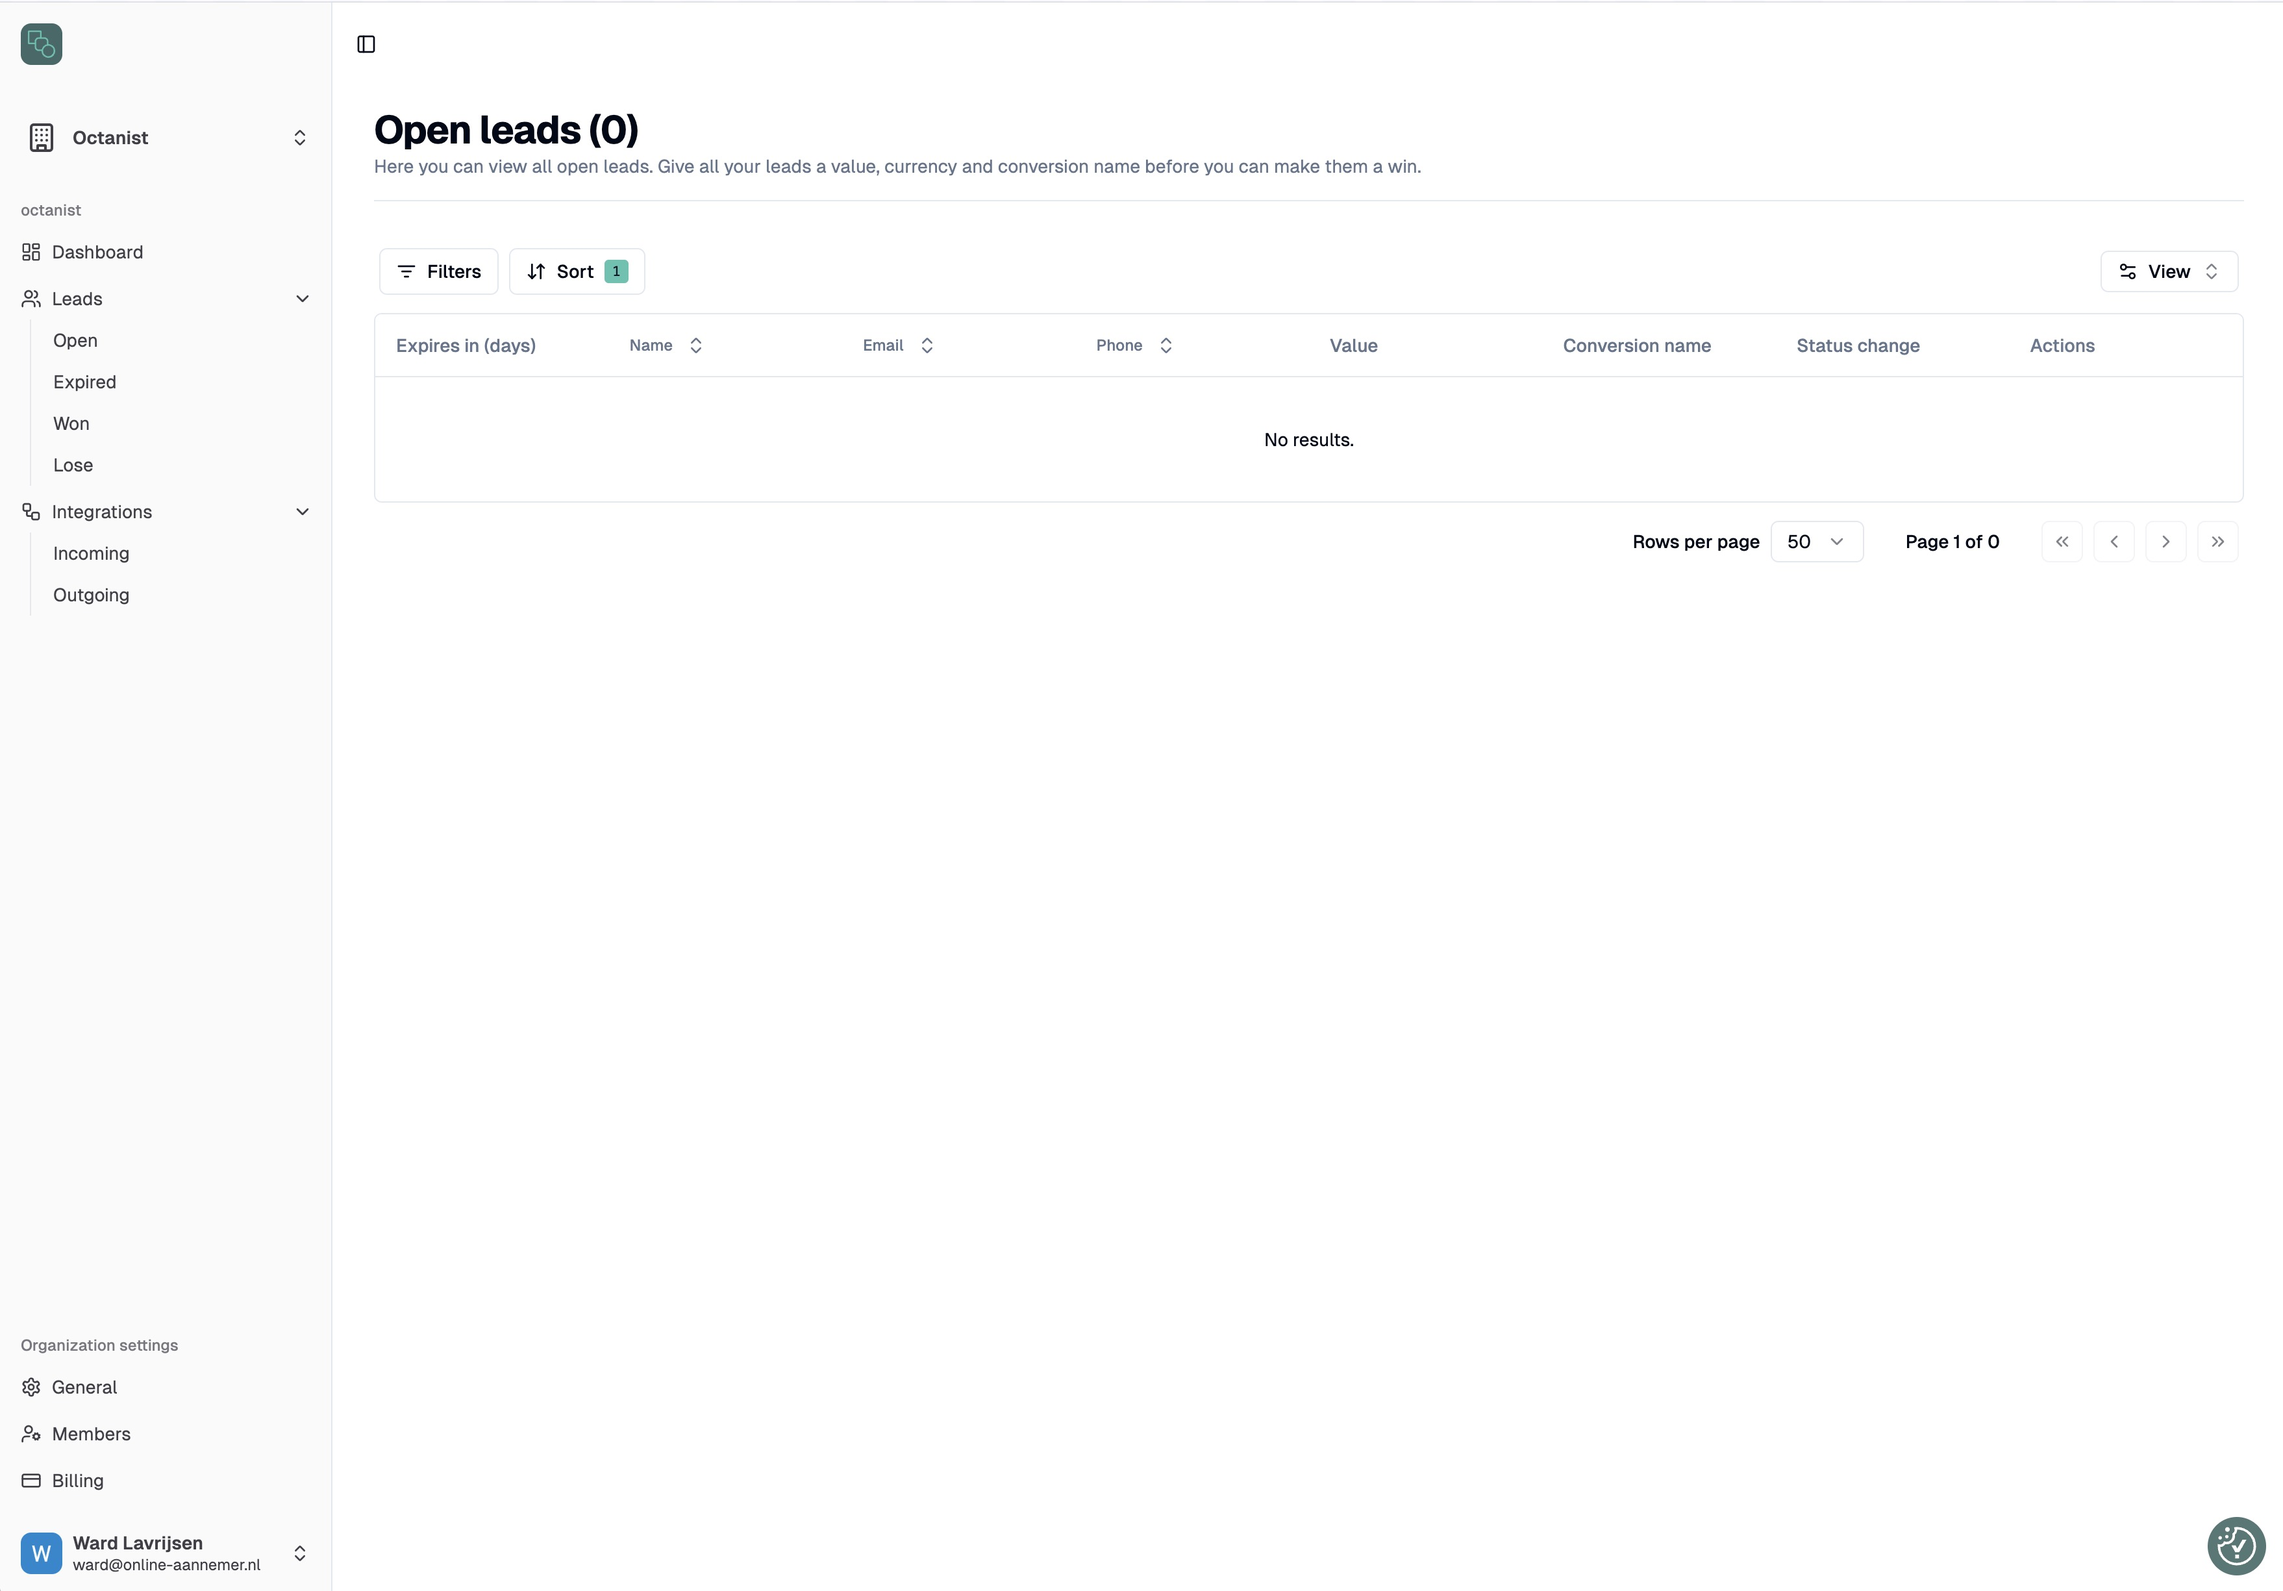
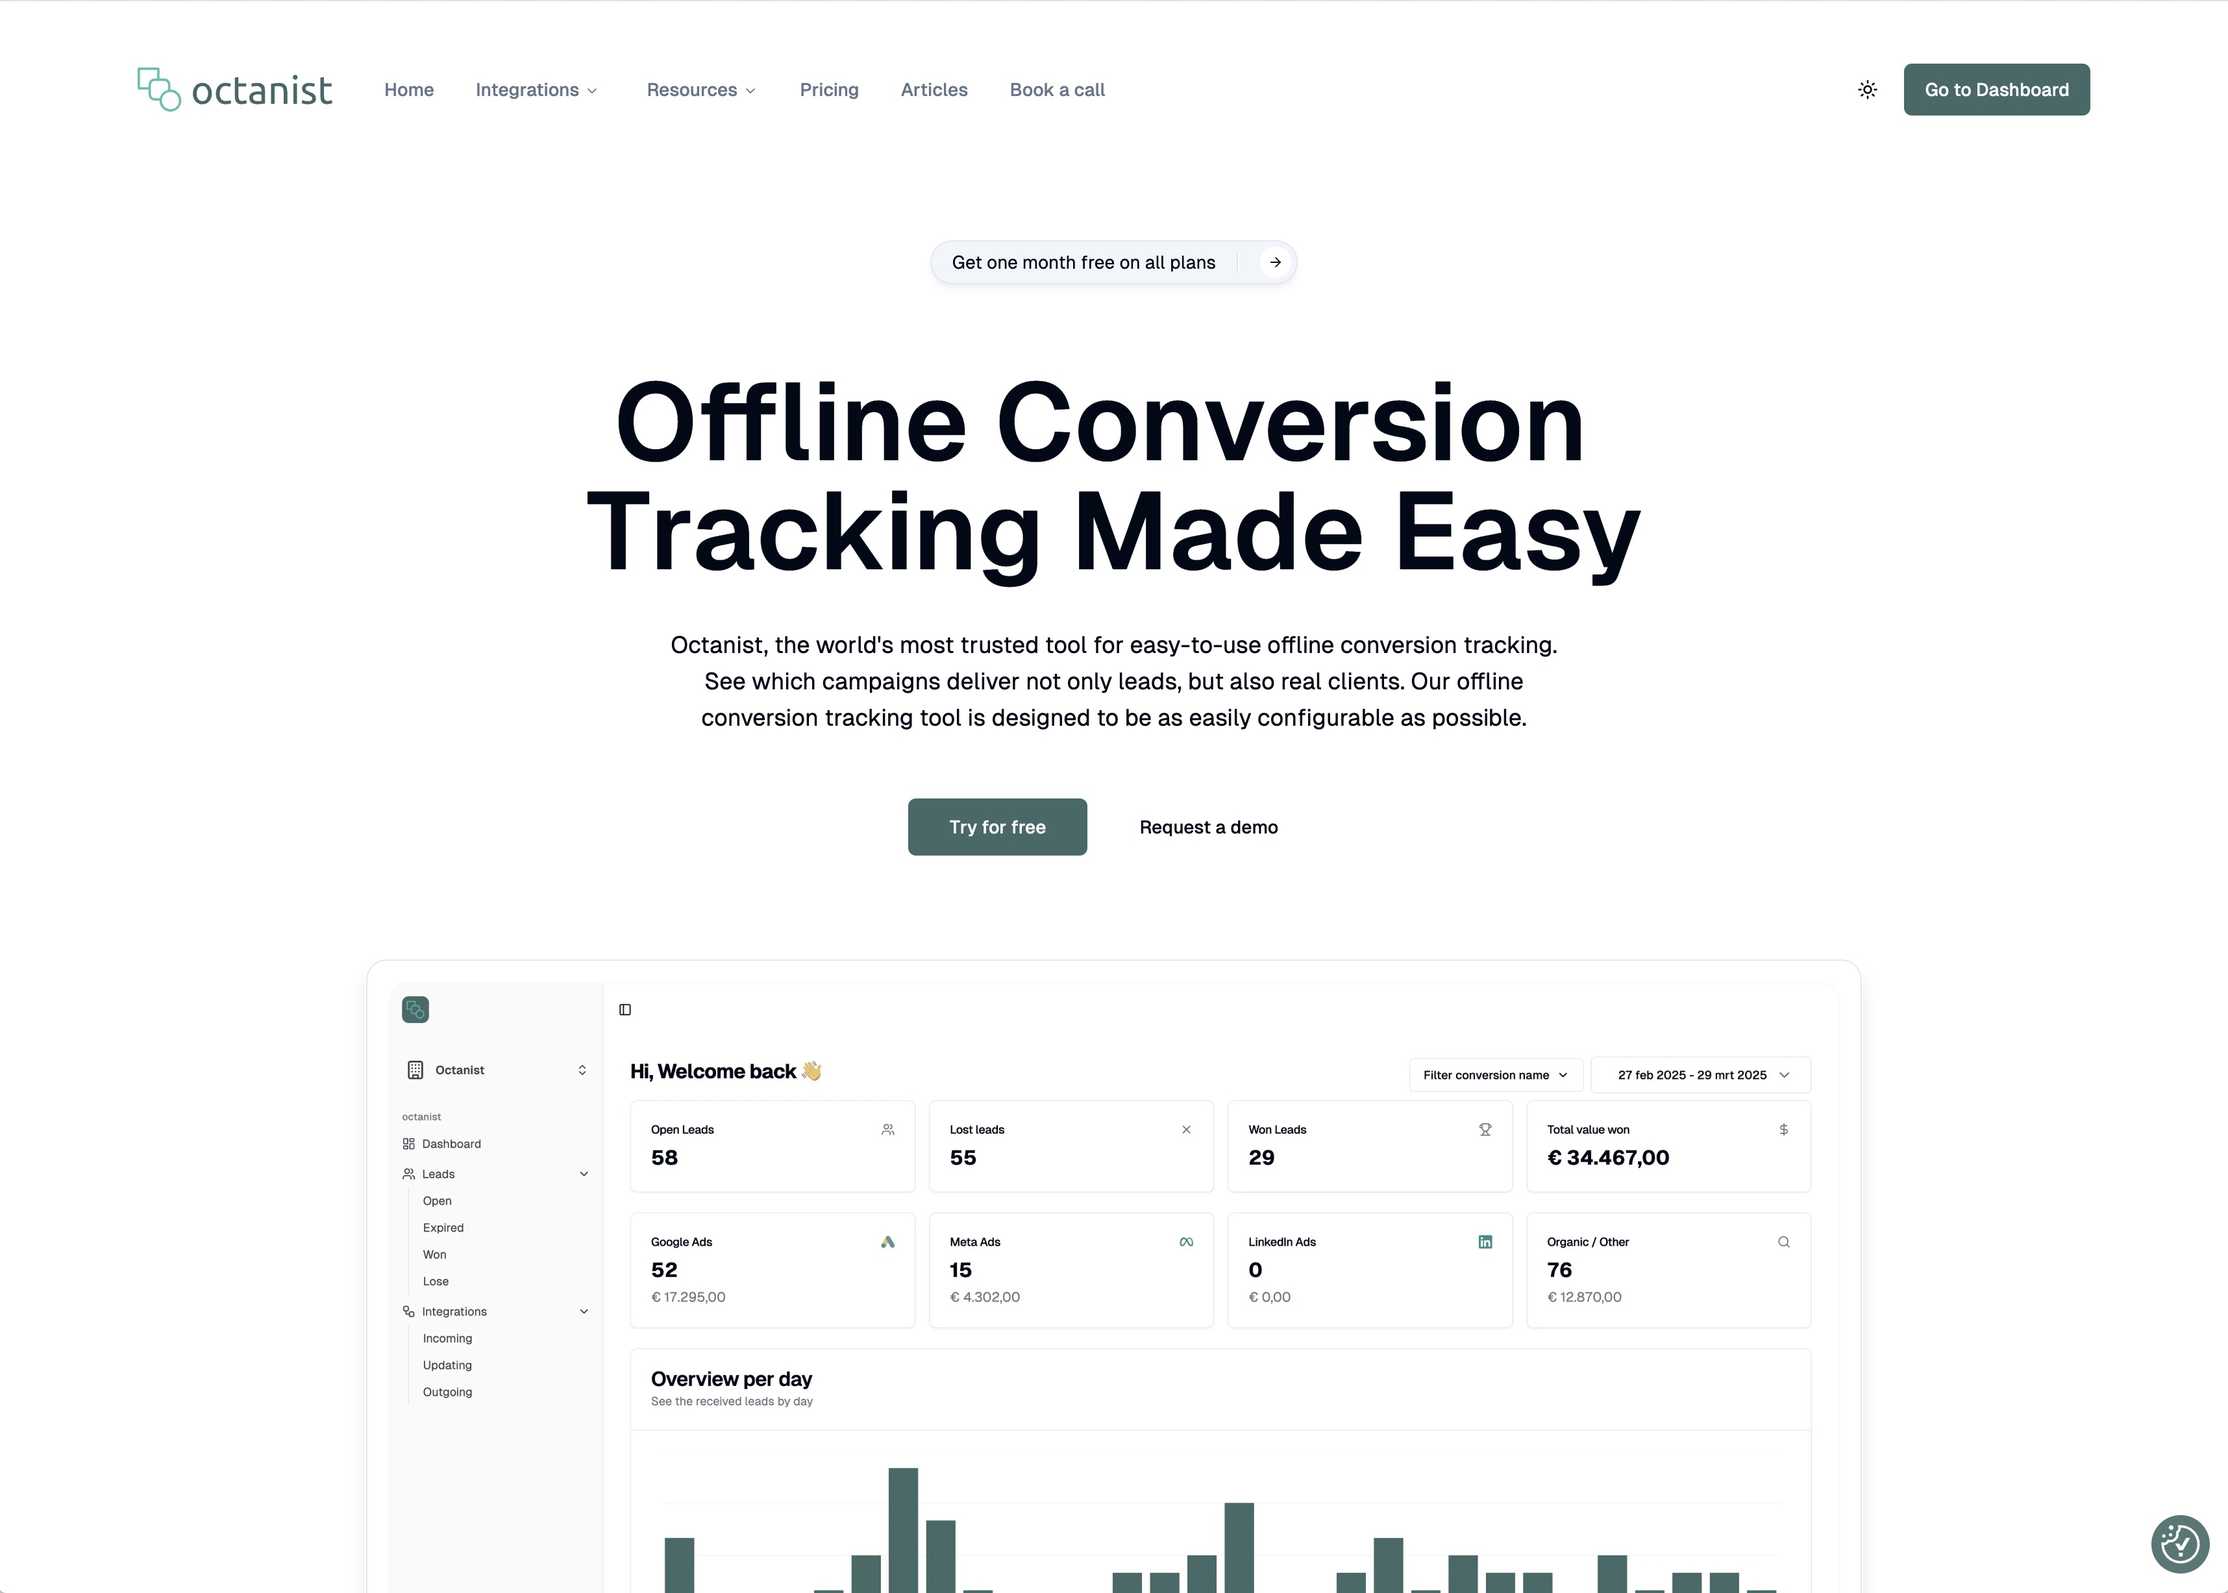
Add the new projects

diff --git a/src/sections/Projects.tsx b/src/sections/Projects.tsx
@@ -2,6 +2,8 @@ import PicToLinesPage from "@/assets/images/pictolines.jpg";
 import NationaalEnergieLabelPage from "@/assets/images/nationaalenergielabel.jpg";
 import AutocompletrPage from "@/assets/images/autocompletr.jpg";
 import OctanistPage from "@/assets/images/octanist.jpg";
+import TrezmaPage from "@/assets/images/trezma-stack.jpg";
+import cronhostPage from "@/assets/images/cronhost.jpg";
 import Image from "next/image";
 import CheckCircleIcon from "@/assets/icons/check-circle.svg";
 import ArrowUpRightIcon from "@/assets/icons/arrow-up-right.svg";
@@ -21,6 +23,30 @@ const portfolioProjects = [
     ],
     link: "https://octanist.com",
     image: OctanistPage,
+  },
+  {
+    company: "Trezma Stack",
+    year: "2025",
+    title: "The best way to start any nextjs app",
+    results: [
+      { title: "Nextjs, React, Tailwind, Typescript" },
+      { title: "tRPC, Drizzle, Better Auth, Bun" },
+      { title: "All cloudflare infrastructure (D1, R2)" },
+    ],
+    link: "https://stack.trezma.com",
+    image: TrezmaPage,
+  },
+  {
+    company: "cronhost",
+    year: "2025",
+    title: "Easy cron job scheduling",
+    results: [
+      { title: "Completely free and easy to use dashboard" },
+      { title: "Automatic retries and error handling" },
+      { title: "Build on serverless infrastructure for infinite scalability" },
+    ],
+    link: "https://cronho.st",
+    image: cronhostPage,
   },
   {
     company: "PicToLines",
